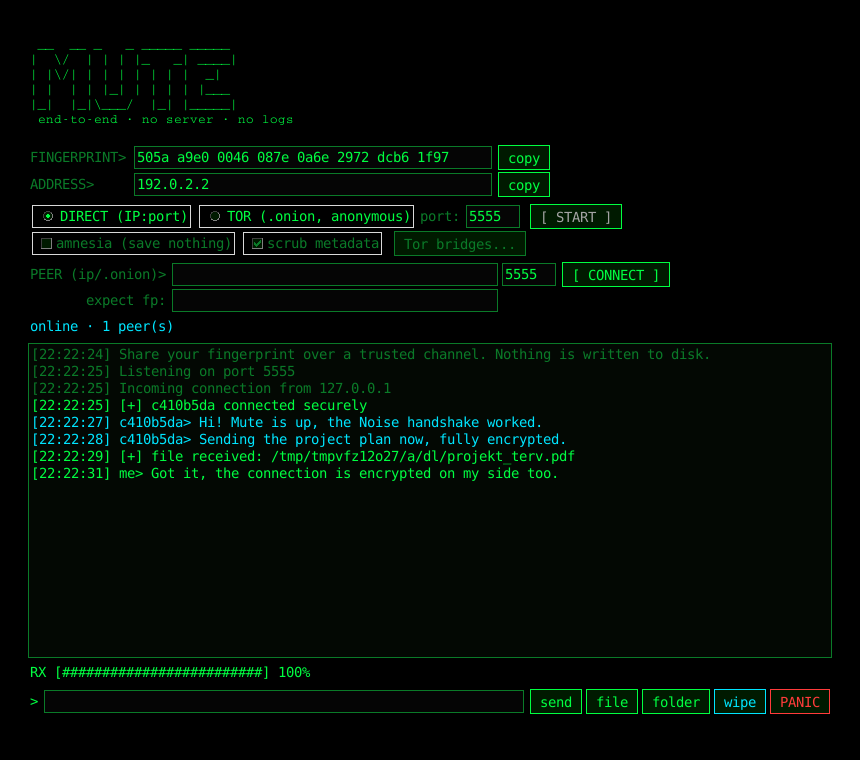
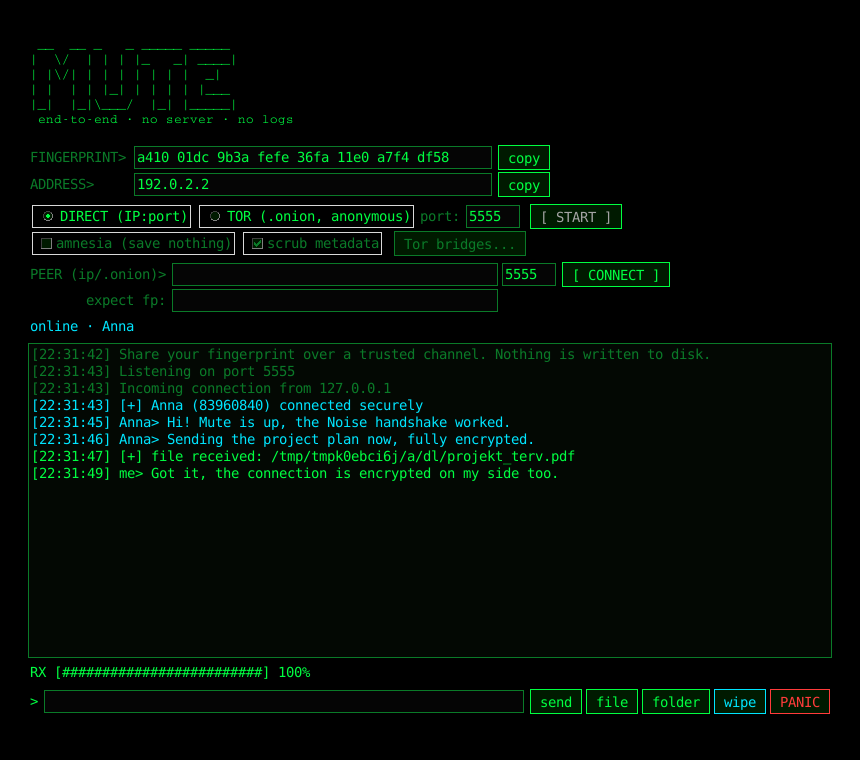
Own Tor launcher (works on Windows/threads), per-peer names and colours, cookie-authenticated control port

Changed region(s): [[0.0302, 0.4539, 0.6651, 0.6355], [0.1512, 0.1816, 0.514, 0.2118], [0.1209, 0.4237, 0.1814, 0.4539]]

diff --git a/mute.py b/mute.py
@@ -24,6 +24,7 @@ import re
 import shutil
 import socket
 import struct
+import subprocess
 import sys
 import tempfile
 import threading
@@ -505,6 +506,8 @@ def find_tor():
                      "tor-browser", "Browser", "TorBrowser", "Tor", "tor"),
         # macOS: Homebrew (Apple Silicon / Intel) and Tor Browser
         "/opt/homebrew/bin/tor", "/usr/local/bin/tor",
+        # Linux: GUI launchers often lack /usr/sbin in PATH
+        "/usr/bin/tor", "/usr/sbin/tor",
         "/Applications/Tor Browser.app/Contents/MacOS/Tor/tor.real",
     ]
     for c in cands:
@@ -543,14 +546,33 @@ def parse_bridges(text):
     return out
 
 
+def _tq(path):
+    """Quotes a path for torrc (forward slashes work everywhere, also on Windows)."""
+    p = path.replace("\\", "/").replace('"', "")
+    return f'"{p}"' if " " in p or p != path else p
+
+
+def torrc_text(cfg):
+    lines = []
+    for key, val in cfg.items():
+        for item in (val if isinstance(val, list) else [val]):
+            lines.append(f"{key} {item}")
+    return "\n".join(lines) + "\n"
+
+
 def build_tor_config(data_dir, socks_port, ctrl_port, bridges=(), pt_paths=None):
     """Builds the torrc options dict (values may be lists for repeated options)."""
     cfg = {"SocksPort": str(socks_port), "ControlPort": str(ctrl_port),
-           "DataDirectory": data_dir, "Log": "NOTICE stdout"}
+           "DataDirectory": _tq(data_dir), "Log": "NOTICE stdout",
+           # control port is protected by a cookie file readable only by this user
+           "CookieAuthentication": "1",
+           "CookieAuthFile": _tq(os.path.join(data_dir, "control_auth_cookie")),
+           # tor exits by itself if Mute dies
+           "__OwningControllerProcess": str(os.getpid())}
     if bridges:
         cfg["UseBridges"] = "1"
         cfg["Bridge"] = [b[0] for b in bridges]
-        plugins = [f"{t} exec {p}" for t, p in (pt_paths or {}).items()]
+        plugins = [f"{t} exec {_tq(p)}" for t, p in (pt_paths or {}).items()]
         if plugins:
             cfg["ClientTransportPlugin"] = plugins
     return cfg
@@ -570,6 +592,7 @@ class Node:
         self.amnesia = amnesia
         self.scrub = scrub
         self.bridges = []   # [(line, transport)] - memory only, never written to disk
+        self.names = {}     # fp -> nickname chosen by YOU (memory only, never sent or saved)
         self.chans = {}     # fp -> Channel
         self.state_lock = threading.Lock()
         self.send_lock = threading.Lock()
@@ -598,13 +621,59 @@ class Node:
     def emit(self, kind, *args):
         self.events.put((kind, *args))
 
+    def label(self, fp):
+        """Display name: your own nickname for this key, else the key's short ID."""
+        return self.names.get(fp) or short(fp)
+
+    def find_peer(self, ident):
+        """Finds a connected peer by nickname or by the start of its short ID."""
+        ident = ident.strip().lower()
+        for fp in self.chans:
+            if short(fp).startswith(ident) or self.names.get(fp, "").lower() == ident:
+                return fp
+        return None
+
     def set_bridges(self, text):
         self.bridges = parse_bridges(text)
 
     # -- start Tor + onion service
+    def _launch_tor(self, tor_cmd, torrc, timeout=240):
+        """Starts tor ourselves (stem's launcher refuses timeouts on Windows and outside
+        the main thread) and waits for 100% bootstrap or fails with the tor log."""
+        kw = {}
+        if os.name == "nt":
+            kw["creationflags"] = subprocess.CREATE_NO_WINDOW
+        proc = subprocess.Popen([tor_cmd, "-f", torrc], stdin=subprocess.DEVNULL,
+                                stdout=subprocess.PIPE, stderr=subprocess.STDOUT,
+                                text=True, bufsize=1, **kw)
+        self.tor_proc = proc
+        state, done, tail = {"ok": False}, threading.Event(), []
+
+        def reader():
+            for line in proc.stdout:  # keeps draining so tor never blocks on a full pipe
+                line = line.rstrip()
+                tail.append(line)
+                del tail[:-40]
+                if "Bootstrapped" in line:
+                    self.emit("sys", line.split("]", 1)[-1].strip())
+                    if "Bootstrapped 100%" in line:
+                        state["ok"] = True
+                        done.set()
+            done.set()  # tor exited
+        threading.Thread(target=reader, daemon=True).start()
+        done.wait(timeout)
+        if not state["ok"]:
+            problems = [ln.split("]", 1)[-1].strip() for ln in tail
+                        if "[warn]" in ln or "[err]" in ln][-3:]
+            try:
+                proc.terminate()
+            except OSError:
+                pass
+            why = "exited" if proc.poll() is not None else f"did not finish bootstrapping in {timeout}s"
+            raise RuntimeError(f"Tor {why}. " + " | ".join(problems))
+
     def start_tor(self, local_port):
         import stem.control
-        import stem.process
         tor_cmd = find_tor()
         if not tor_cmd:
             raise RuntimeError(
@@ -632,16 +701,11 @@ class Node:
         self.emit("sys", "Starting Tor (this can take up to a minute)...")
         self.tor_dir = tempfile.mkdtemp(prefix="mute_tor_")
         self.socks_port, ctrl = free_port(), free_port()
-
-        def handler(line):
-            if "Bootstrapped" in line:
-                self.emit("sys", line.split("]")[-1].strip())
-
-        self.tor_proc = stem.process.launch_tor_with_config(
-            tor_cmd=tor_cmd,
-            config=build_tor_config(self.tor_dir, self.socks_port, ctrl,
-                                    self.bridges, plugin_cfg),
-            init_msg_handler=handler, timeout=240, take_ownership=True)
+        torrc = os.path.join(self.tor_dir, "torrc")
+        with open(torrc, "w", encoding="utf-8") as f:
+            f.write(torrc_text(build_tor_config(self.tor_dir, self.socks_port, ctrl,
+                                                self.bridges, plugin_cfg)))
+        self._launch_tor(tor_cmd, torrc)
         self.controller = stem.control.Controller.from_port(port=ctrl)
         self.controller.authenticate()
         svc = self.controller.create_ephemeral_hidden_service(
@@ -803,7 +867,7 @@ class Node:
         except Exception as e:
             if fobj:
                 fobj.close()
-            self.emit("sys", f"{short(fp)} disconnected: {e}")
+            self.emit("sys", f"{self.label(fp)} disconnected: {e}")
         finally:
             with self.state_lock:
                 if self.chans.get(fp) is chan:
@@ -823,7 +887,7 @@ class Node:
             try:
                 ch.send(T_MSG, text.encode("utf-8"))
             except OSError as e:
-                self.emit("sys", f"{short(fp)}: send error: {e}")
+                self.emit("sys", f"{self.label(fp)}: send error: {e}")
 
     def send_file(self, path):
         targets = list(self.chans.items())
@@ -872,9 +936,9 @@ class Node:
                             if not 0 <= offset <= size:
                                 raise ConnectionError("Invalid resume offset")
                             if offset:
-                                self.emit("sys", f"{short(fp)}: resuming from {human(offset)}")
+                                self.emit("sys", f"{self.label(fp)}: resuming from {human(offset)}")
                             sent, last, t0 = offset, 0, time.time()
-                            label = f"TX {short(fp)} {name}" if multi else f"TX {name}"
+                            label = f"TX {self.label(fp)} {name}" if multi else f"TX {name}"
                             with open(p, "rb") as f:
                                 f.seek(offset)
                                 while True:
@@ -890,9 +954,9 @@ class Node:
                                                   (sent - offset) / max(now - t0, 1e-6))
                             ch.send(T_FILE_END)
                             self.emit("progress", label, size, size, 0)
-                            self.emit("sys", f"Sent to {short(fp)}: {name} ({human(size)})")
+                            self.emit("sys", f"Sent to {self.label(fp)}: {name} ({human(size)})")
                         except Exception as e:
-                            self.emit("sys", f"{short(fp)}: transfer interrupted ({e}); "
+                            self.emit("sys", f"{self.label(fp)}: transfer interrupted ({e}); "
                                              "sending again will resume")
 
                     ths = [threading.Thread(target=to_peer, args=t, daemon=True)
@@ -1062,6 +1126,15 @@ def main():
     chat.tag_config("peer", foreground=ACC)
     chat.tag_config("sys", foreground=DIM)
     chat.tag_config("err", foreground=RED)
+    PALETTE = [ACC, "#ffd166", "#ff6bd6", "#a78bfa", "#ff9f43", "#5eead4", "#f472b6", "#93c5fd"]
+    peer_tag = {}
+
+    def tag_for(fp):
+        if fp not in peer_tag:
+            tag = f"peer{len(peer_tag)}"
+            chat.tag_config(tag, foreground=PALETTE[len(peer_tag) % len(PALETTE)])
+            peer_tag[fp] = tag
+        return peer_tag[fp]
 
     def log(text, tag="sys"):
         chat.config(state="normal")
@@ -1201,12 +1274,22 @@ def main():
                 if k == "sys":
                     log(ev[1])
                 elif k == "msg":
-                    log(f"{short(ev[1])}> {ev[2]}", "peer")
+                    log(f"{node.label(ev[1])}> {ev[2]}", tag_for(ev[1]))
                 elif k == "connected":
-                    log(f"[+] {short(ev[1])} connected securely", "me")
-                    status_var.set(f"online · {len(node.chans)} peer(s)")
+                    fp = ev[1]
+                    name = simpledialog.askstring(
+                        "Name this peer",
+                        f"Peer {short(fp)} connected securely.\n"
+                        "Give it a name (only you see it, it is not sent or saved).\n"
+                        "The ID is derived from their key and cannot be faked.",
+                        initialvalue=node.names.get(fp, ""), parent=root)
+                    if name and name.strip():
+                        node.names[fp] = name.strip()[:24]
+                    log(f"[+] {node.label(fp)} ({short(fp)}) connected securely", tag_for(fp))
+                    status_var.set("online · " + ", ".join(node.label(f) for f in node.chans))
                 elif k == "disconnected":
-                    status_var.set(f"online · {len(node.chans)} peer(s)" if node.chans else "offline")
+                    status_var.set("online · " + ", ".join(node.label(f) for f in node.chans)
+                                   if node.chans else "offline")
                 elif k == "addr":
                     addr_var.set(ev[1])
                 elif k == "enable_start":
@@ -1305,11 +1388,11 @@ def cli_main(argv):
             if k == "sys":
                 print(f"[*] {ev[1]}")
             elif k == "msg":
-                print(f"{short(ev[1])}> {ev[2]}")
+                print(f"{node.label(ev[1])}> {ev[2]}")
             elif k == "connected":
-                print(f"[+] {short(ev[1])} connected securely")
+                print(f"[+] {node.label(ev[1])} connected securely")
             elif k == "disconnected":
-                print(f"[-] {short(ev[1])} disconnected")
+                print(f"[-] {node.label(ev[1])} disconnected")
             elif k == "file":
                 print(("[+] File received: " if ev[3] else "[!] DAMAGED file: ") + ev[2])
     threading.Thread(target=printer, daemon=True).start()
@@ -1331,7 +1414,7 @@ def cli_main(argv):
         node.shutdown()
         return
 
-    print("Commands: /send <file|folder>  /peers  /fp  /quit   (any other text is sent to everyone)")
+    print("Commands: /send <file|folder>  /peers  /name <id> <name>  /fp  /quit   (other text goes to everyone)")
     try:
         for line in sys.stdin:
             line = line.rstrip("\n")
@@ -1342,8 +1425,16 @@ def cli_main(argv):
                 break
             elif line == "/fp":
                 print(node.my_fp)
+            elif line.startswith("/name "):
+                parts = line.split(None, 2)
+                fp = node.find_peer(parts[1]) if len(parts) == 3 else None
+                if fp:
+                    node.names[fp] = parts[2].strip()[:24]
+                    print(f"[*] {short(fp)} is now called {node.names[fp]}")
+                else:
+                    print("Usage: /name <id-or-name> <new name>   (see /peers)")
             elif line == "/peers":
-                print(", ".join(short(f) for f in node.chans) or "(none)")
+                print(", ".join(f"{node.label(f)} ({short(f)})" for f in node.chans) or "(none)")
             elif line.startswith("/send "):
                 try:
                     node.send_file(line[6:].strip().strip('"'))

diff --git a/tests/test_scrub.py b/tests/test_scrub.py
@@ -96,4 +96,10 @@ cfg = m.build_tor_config("/tmp/d", 9050, 9051, b, {"obfs4,meek_lite": "/usr/bin/
 ok(cfg["UseBridges"] == "1" and len(cfg["Bridge"]) == 3 and "obfs4,meek_lite exec /usr/bin/lyrebird" in cfg["ClientTransportPlugin"], "torrc config built")
 ok("UseBridges" not in m.build_tor_config("/tmp/d", 1, 2), "no bridges -> plain config")
 
+# ---- torrc text
+t = m.torrc_text(m.build_tor_config("C:\\Users\\A B\\tmp", 9050, 9051, b, {"obfs4,meek_lite": "C:\\Program Files\\Tor\\lyrebird.exe"}))
+ok('DataDirectory "C:/Users/A B/tmp"' in t, "windows path with spaces is quoted and uses forward slashes")
+ok('ClientTransportPlugin obfs4,meek_lite exec "C:/Program Files/Tor/lyrebird.exe"' in t, "plugin path with spaces quoted")
+ok(t.count("\nBridge ") == len(b) and "CookieAuthentication 1" in t and "__OwningControllerProcess" in t, "bridges repeated, cookie auth on, owner pid set")
+
 print("all scrub/bridge tests passed")

diff --git a/README.md b/README.md
@@ -15,6 +15,10 @@ No account, no server, no logs. Connect by exchanging an address (IP or `.onion`
 - **Files and folders**: large files in chunks with speed/ETA, **resumable** after an interruption, folders sent as a clean zip.
 - **Metadata scrubbing** (on by default) for outgoing files - see below.
 - **Group chat**: connect to several peers; messages and files go to everyone you are connected to (full mesh, no relaying).
+- **Know who is writing**: every peer is identified by its cryptographic key. When someone connects you give them a name
+  (only you see it; it is not sent, not saved, and a peer cannot choose or fake it). Each peer gets its own colour.
+  Unnamed peers show an 8-character ID derived from their key. In group chats name everyone as soon as you have
+  verified their fingerprint.
 - **Leave no trace**: no chat logs, optional amnesia mode, **wipe** clears the chat window, **PANIC** wipes and exits.
 - **Passphrase-protected identity key** (scrypt + ChaCha20-Poly1305).
 - Runs on **Windows, Linux and macOS** from one Python file (`mute.py`).
@@ -64,7 +68,7 @@ python mute.py --tor --bridge "obfs4 IP:PORT FINGERPRINT cert=... iat-mode=0"
 python mute.py --tor --bridge-file bridges.txt
 ```
 Options: `--fp <fingerprint>` (expected peer), `--no-scrub`, `--amnesia`.
-Commands inside: `/send <file|folder>`, `/peers`, `/fp`, `/quit`; any other text is sent to everyone.
+Commands inside: `/send <file|folder>`, `/peers`, `/name <id-or-name> <new name>`, `/fp`, `/quit`; any other text is sent to everyone.
 
 ## Metadata scrubbing
 
